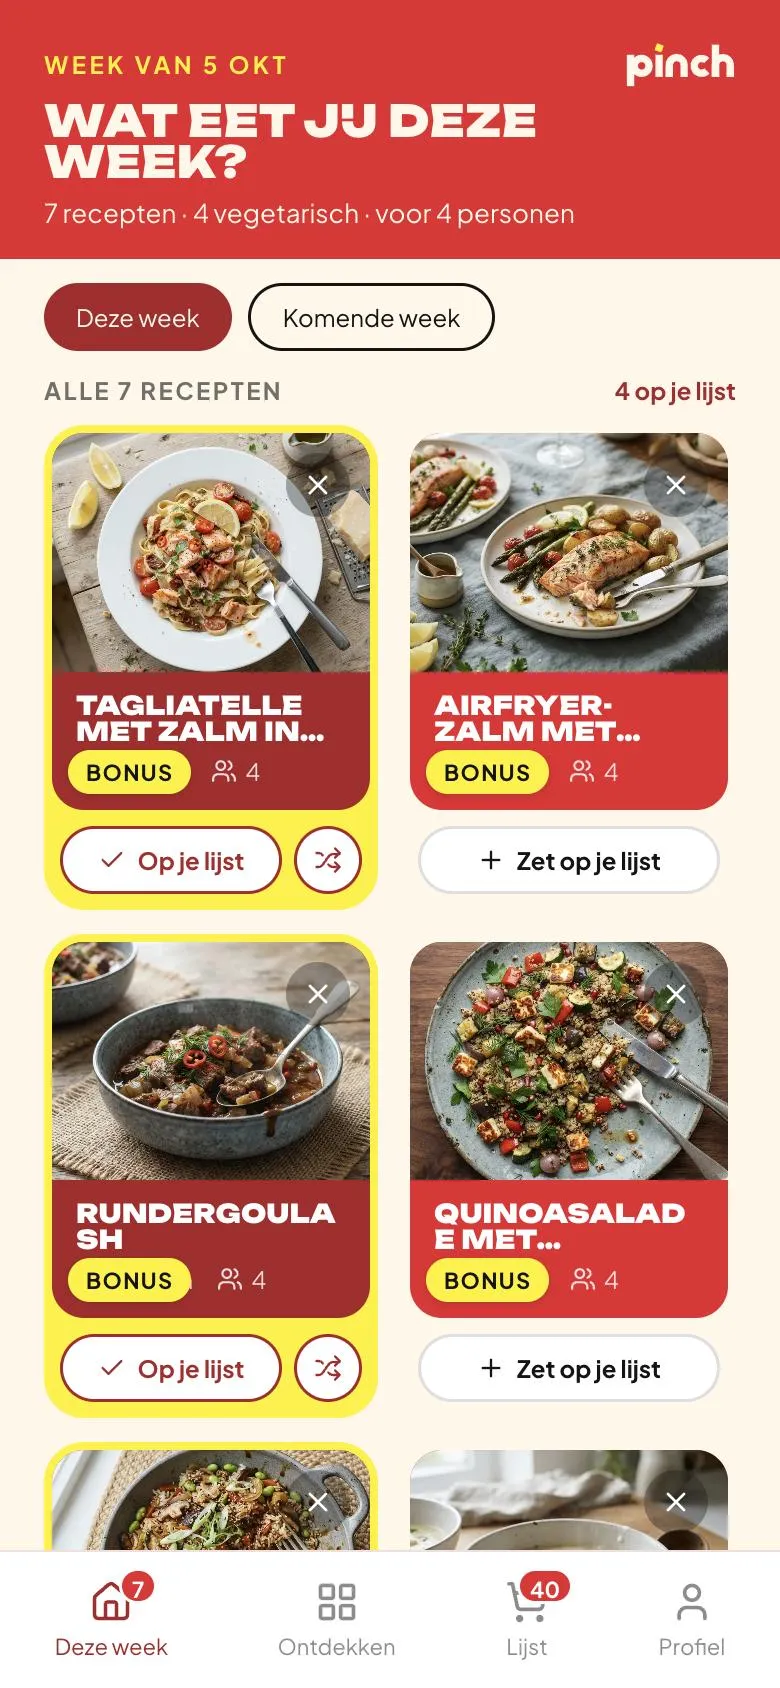
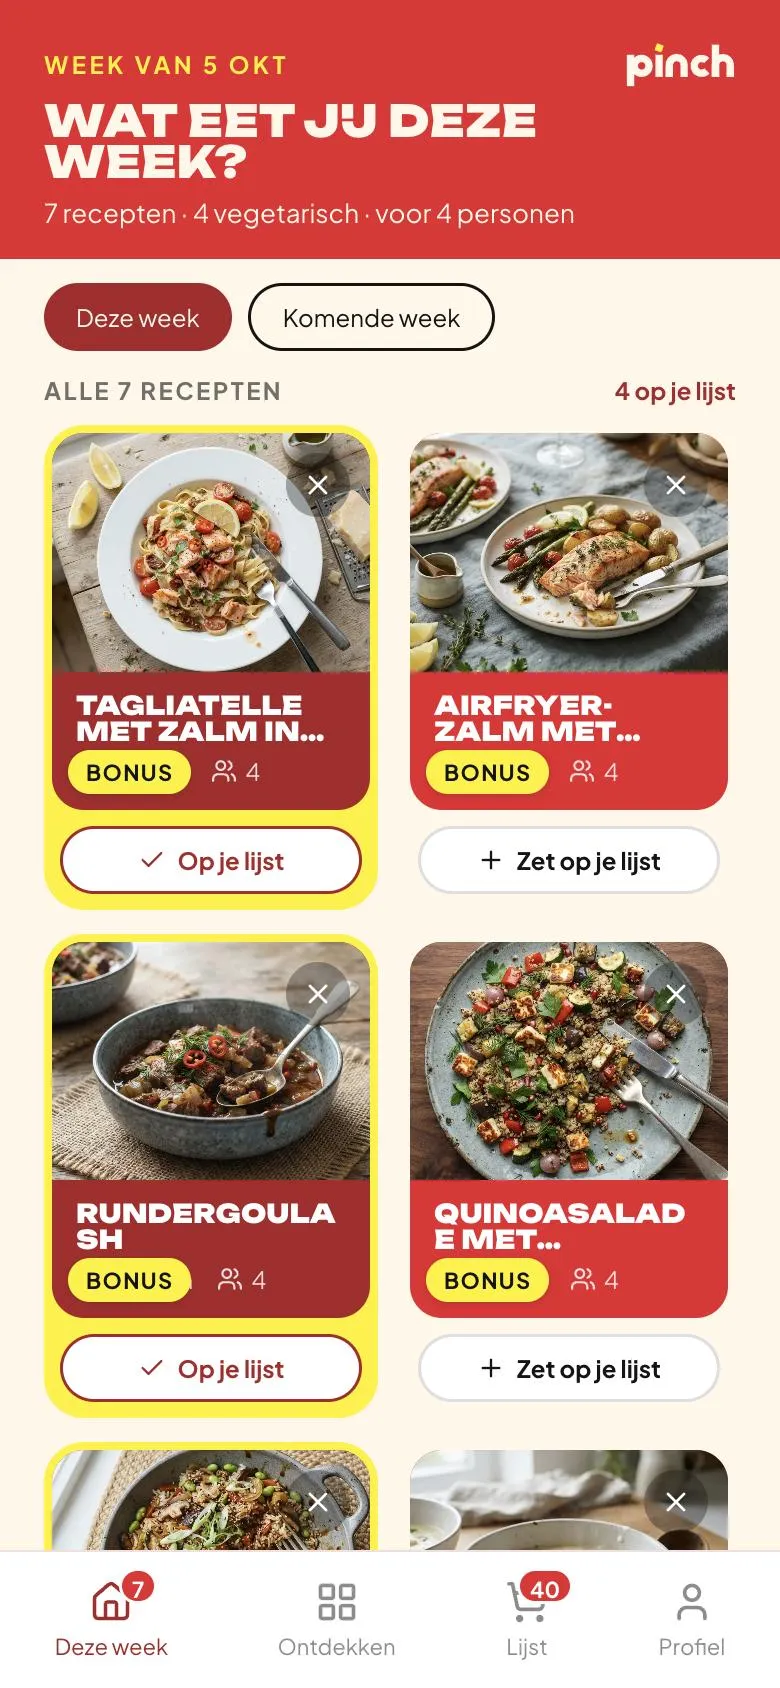
Uitleg vloeiend: afbeeldingen vooraf ophalen en overvloeien
De kaart liet eerst een leeg venster met het uitgelichte vlak zien en
daarna pas de afbeelding. Nu haalt het welkomscherm de afbeeldingen al
op, staan ze alle zes klaar en vloeit de ene in de andere over. De
afbeelding van Deze week is opnieuw gemaakt zonder de ruilknop.

Changed region(s): [[0.1846, 0.4621, 0.4308, 0.5545], [0.1846, 0.7701, 0.4308, 0.8318]]

diff --git a/app/src/components/Uitleg.tsx b/app/src/components/Uitleg.tsx
@@ -1,4 +1,4 @@
-import { useRef, useState } from 'react'
+import { useEffect, useRef, useState } from 'react'
 import { Button, IconButton } from '../ds'
 import ontdekken from '../assets/uitleg/ontdekken.webp'
 import dezeWeek from '../assets/uitleg/deze-week.webp'
@@ -87,6 +87,7 @@ export function Uitleg({ start = 0, laatsteKnop, overslaanTekst, onKlaar, onOver
 }) {
   const [kaart, setKaart] = useState(Math.min(Math.max(start, 0), KAARTEN.length - 1))
   const veegStart = useRef<number | null>(null)
+  useEffect(laadUitlegBeelden, [])
   const huidig = KAARTEN[kaart]
   const laatste = kaart === KAARTEN.length - 1
 
@@ -130,7 +131,7 @@ export function Uitleg({ start = 0, laatsteKnop, overslaanTekst, onKlaar, onOver
         >{overslaanTekst}</button>
       </div>
 
-      <Beeld kaart={huidig} />
+      <Beelden kaart={kaart} />
 
       <div style={{ flex: 'none', display: 'flex', flexDirection: 'column', gap: 10 }}>
         <span style={{ fontSize: 12, fontWeight: 700, letterSpacing: '.1em', color: 'var(--c-ink-500)' }}>
@@ -153,35 +154,81 @@ export function Uitleg({ start = 0, laatsteKnop, overslaanTekst, onKlaar, onOver
 /* -------------------------------------------------------------------- beeld */
 
 /**
- * De schermafbeelding, zo geschoven dat het uitgelichte vlak midden in het
- * venster staat. Het vlak zelf is een gat in een donkere laag: de schaduw
- * van het vlak dekt de rest van de afbeelding af.
+ * Haalt de afbeeldingen alvast op, zodat de eerste kaart er meteen staat.
  */
-function Beeld({ kaart }: { kaart: Kaart }) {
-  const { licht } = kaart
-  // Niet verder schuiven dan de afbeelding lang is: anders zie je boven of onder een lege strook.
-  const midden = Math.min(0.7, Math.max(0.3, licht.y + licht.h / 2))
+const opgehaald: HTMLImageElement[] = []
+function laadUitlegBeelden() {
+  if (opgehaald.length > 0) return
+  for (const src of new Set(KAARTEN.map((k) => k.beeld))) {
+    const img = new Image()
+    img.src = src
+    opgehaald.push(img)
+  }
+}
+
+/**
+ * Tekent niets, haalt alleen de afbeeldingen op. De onboarding zet dit op het
+ * welkomscherm: tegen de tijd dat je op "Laat zien hoe het werkt" tikt zijn
+ * ze binnen.
+ */
+export function UitlegVoorladen() {
+  useEffect(laadUitlegBeelden, [])
+  return null
+}
+
+/**
+ * De schermafbeeldingen van alle kaarten, op elkaar. Alleen die van de
+ * huidige kaart is zichtbaar; wisselen is een korte overvloeier in plaats van
+ * een lege kaart die volloopt. Een kaart verschijnt pas als zijn afbeelding
+ * er is: anders zie je eerst het uitgelichte vlak boven een leeg venster.
+ *
+ * Elke afbeelding is zo geschoven dat het uitgelichte vlak midden in het
+ * venster staat. Het vlak zelf is een gat in een donkere laag: de schaduw van
+ * het vlak dekt de rest van de afbeelding af.
+ */
+function Beelden({ kaart }: { kaart: number }) {
+  const [geladen, setGeladen] = useState<ReadonlySet<string>>(new Set())
+  const klaar = (src: string) => setGeladen((oud) => (oud.has(src) ? oud : new Set(oud).add(src)))
   return (
     <div
-      role="img" aria-label={kaart.alt}
+      role="img" aria-label={KAARTEN[kaart].alt}
       style={{
         flex: '1 1 0', minHeight: 0, maxHeight: 440, position: 'relative', overflow: 'hidden',
-        borderRadius: 24, background: 'var(--c-ink)',
+        borderRadius: 24, background: 'var(--c-red-100)',
       }}
     >
-      <div style={{
-        position: 'absolute', left: 0, right: 0, top: '50%', aspectRatio: `1 / ${kaart.verhouding}`,
-        transform: `translateY(-${midden * 100}%)`,
-      }}>
-        <img src={kaart.beeld} alt="" draggable={false} style={{ display: 'block', width: '100%', height: '100%' }} />
-        <div style={{
-          position: 'absolute', boxSizing: 'border-box',
-          left: `${licht.x * 100}%`, top: `${licht.y * 100}%`,
-          width: `${licht.b * 100}%`, height: `${licht.h * 100}%`,
-          borderRadius: kaart.rond ?? 14, border: '3px solid var(--c-paper)',
-          boxShadow: '0 0 0 2000px rgba(20,20,20,0.55)',
-        }} />
-      </div>
+      {KAARTEN.map((k, i) => {
+        const { licht } = k
+        // Niet verder schuiven dan de afbeelding lang is: anders zie je boven of onder een lege strook.
+        const midden = Math.min(0.7, Math.max(0.3, licht.y + licht.h / 2))
+        return (
+          <div key={k.kop} aria-hidden style={{
+            position: 'absolute', inset: 0,
+            opacity: i === kaart && geladen.has(k.beeld) ? 1 : 0,
+            transition: 'opacity 220ms var(--ease)',
+          }}>
+            <div style={{
+              position: 'absolute', left: 0, right: 0, top: '50%', aspectRatio: `1 / ${k.verhouding}`,
+              transform: `translateY(-${midden * 100}%)`,
+            }}>
+              <img
+                src={k.beeld} alt="" draggable={false}
+                // Staat de afbeelding al in het geheugen, dan komt onLoad soms niet meer: vandaar ook de ref.
+                ref={(el) => { if (el?.complete && el.naturalWidth > 0) klaar(k.beeld) }}
+                onLoad={() => klaar(k.beeld)}
+                style={{ display: 'block', width: '100%', height: '100%' }}
+              />
+              <div style={{
+                position: 'absolute', boxSizing: 'border-box',
+                left: `${licht.x * 100}%`, top: `${licht.y * 100}%`,
+                width: `${licht.b * 100}%`, height: `${licht.h * 100}%`,
+                borderRadius: k.rond ?? 14, border: '3px solid var(--c-paper)',
+                boxShadow: '0 0 0 2000px rgba(20,20,20,0.55)',
+              }} />
+            </div>
+          </div>
+        )
+      })}
     </div>
   )
 }

diff --git a/app/src/screens/Onboarding.tsx b/app/src/screens/Onboarding.tsx
@@ -4,7 +4,7 @@ import { useQueryClient } from '@tanstack/react-query'
 import { Button, Chip, Icon, IconButton, ProgressBar, Woordmerk } from '../ds'
 import { Label, Titel } from '../components/Layout'
 import { Grens, Laden } from '../components/Staten'
-import { AANTAL_UITLEGKAARTEN, Uitleg } from '../components/Uitleg'
+import { AANTAL_UITLEGKAARTEN, Uitleg, UitlegVoorladen } from '../components/Uitleg'
 import { AllergieKeuze, KeukenKeuze } from '../components/voorkeuren'
 import { haalDezeWeek, sleutels, useLijstActies, useVoorkeuren, useVoorkeurenOpslaan } from '../lib/queries'
 import { useKeukens, useVoorraad, useVoorraadMuteren } from '../lib/queries2'
@@ -272,6 +272,7 @@ function Verloop({ voorkeuren }: { voorkeuren: Voorkeuren }) {
         background: 'var(--c-red)', color: 'var(--c-cream)',
         padding: 'calc(env(safe-area-inset-top) + 28px) 26px calc(env(safe-area-inset-bottom) + 20px)',
       }}>
+        <UitlegVoorladen />
         <Woordmerk hoogte={48} />
         <div style={{ display: 'flex', flexDirection: 'column', gap: 16 }}>
           <Label>Welkom bij Pinch</Label>
